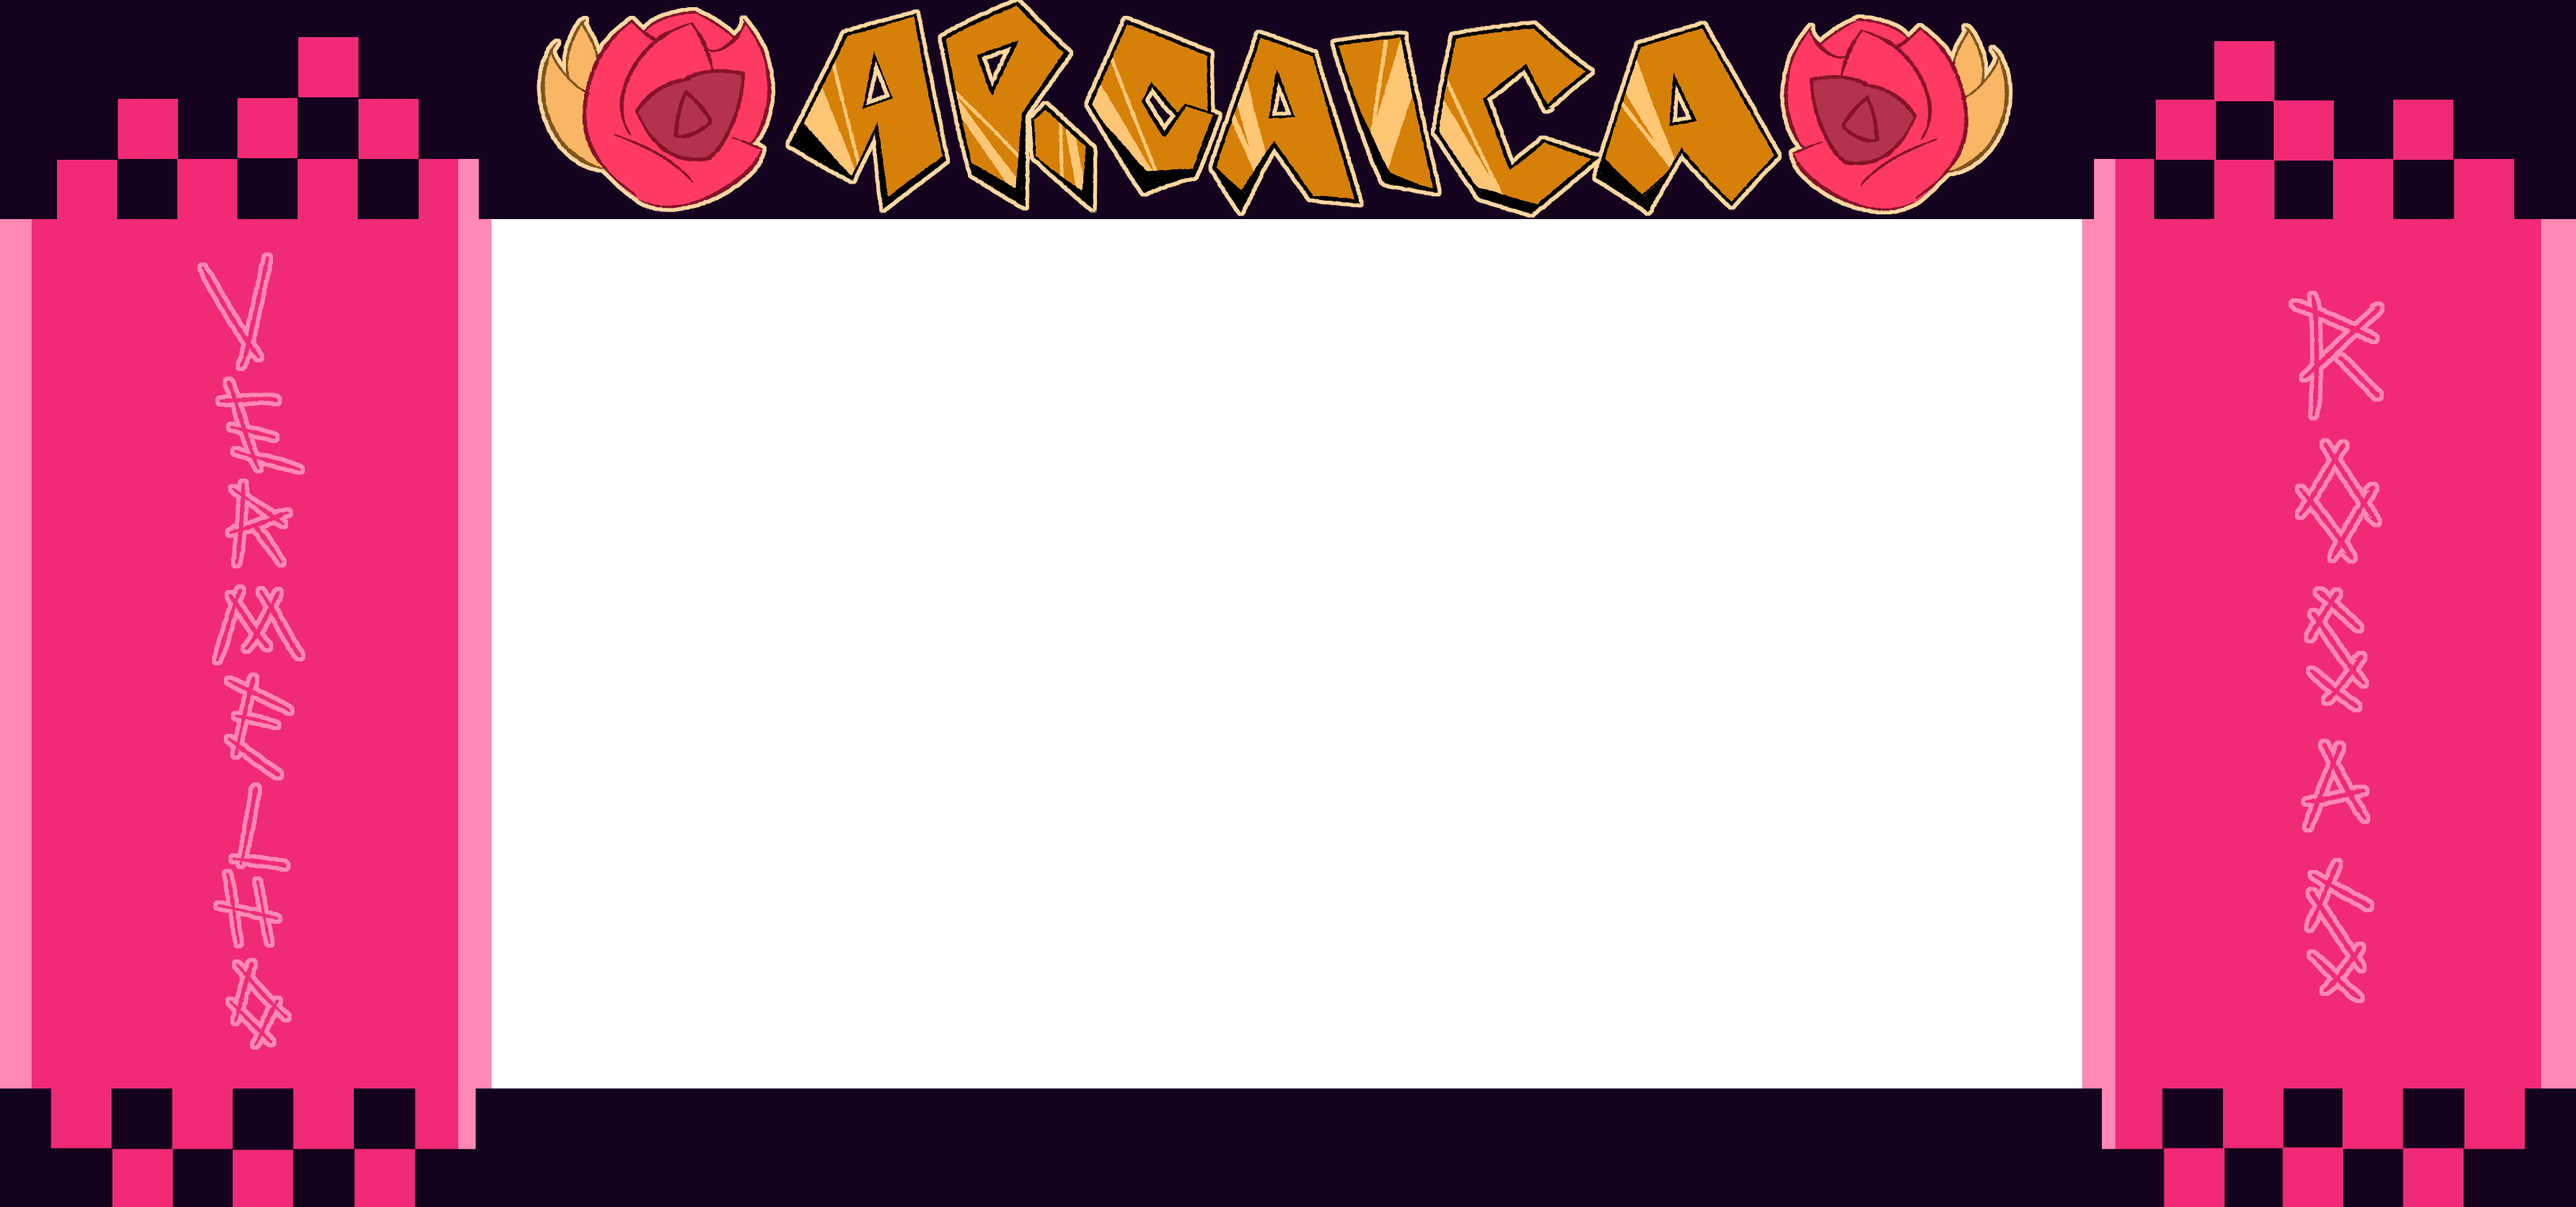
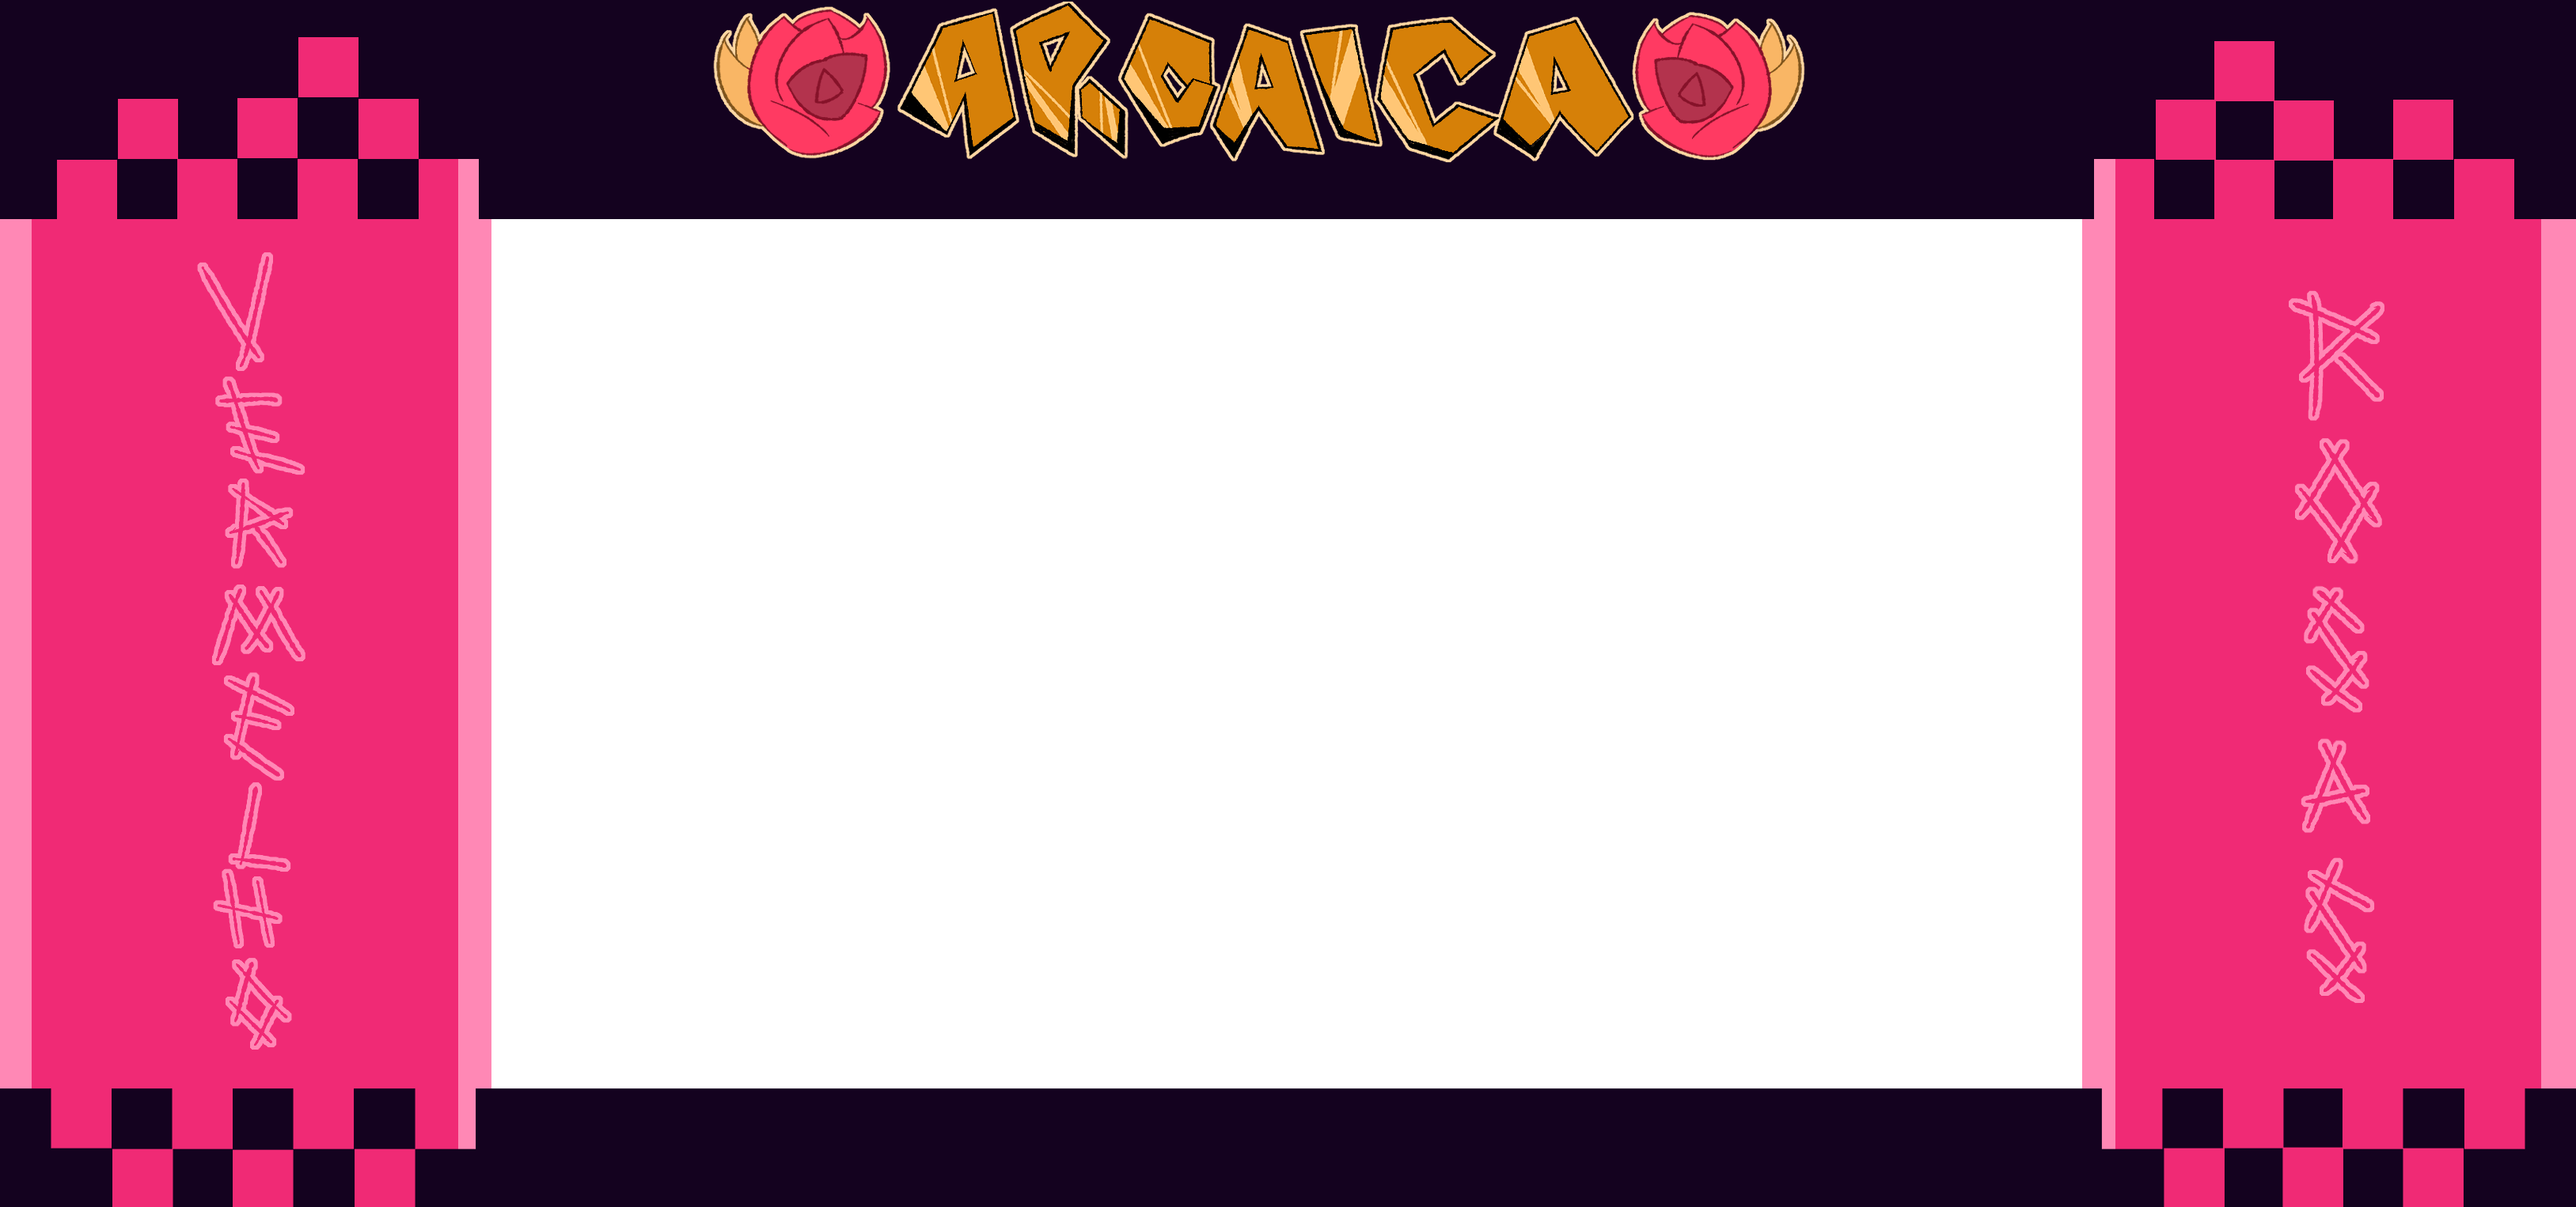
atualizacao background

Changed region(s): [[0.1862, 0.0, 0.8068, 0.1848]]

diff --git a/Projeto Arcaica/game_selection/game_selection.html b/Projeto Arcaica/game_selection/game_selection.html
@@ -34,7 +34,7 @@
               class="swiper-slide card-container"
               data-img="img/GSelection_Title_Jvelha.png"
             >
-              <a href="#">
+              <a href="../jogos/jvelha.html">
                 <div class="card">
                   <div
                     class="front"
@@ -48,7 +48,7 @@
               class="swiper-slide card-container"
               data-img="img/GSelection_Title_Damas.png"
             >
-              <a href="#">
+              <a href="../jogos/damas.html">
                 <div class="card">
                   <div
                     class="front"
@@ -62,7 +62,7 @@
               class="swiper-slide card-container"
               data-img="img/GSelection_Title_Cminado.png"
             >
-              <a href="#">
+              <a href="../jogos/cminado.html">
                 <div class="card">
                   <div
                     class="front"
@@ -76,15 +76,13 @@
               class="swiper-slide card-container"
               data-img="img/GSelection_Title_Nogame.png"
             >
-              <a href="#">
-                <div class="card">
-                  <div
-                    class="front"
-                    data-img="img/Gselect_Card_Front_anon.png"
-                  ></div>
-                  <div class="back"></div>
-                </div>
-              </a>
+              <div class="card">
+                <div
+                  class="front"
+                  data-img="img/Gselect_Card_Front_anon.png"
+                ></div>
+                <div class="back"></div>
+              </div>
             </div>
           </div>
         </div>

diff --git a/Projeto Arcaica/game_selection/game_selection.css b/Projeto Arcaica/game_selection/game_selection.css
@@ -33,7 +33,7 @@ body {
   background-repeat: no-repeat;
   background-position: center;
   background-size: cover;
-  margin-top: 18.2vh;
+  margin-top: 15vh;
 }
 #image-overlay {
   position: absolute;

diff --git a/Projeto Arcaica/home/home.css b/Projeto Arcaica/home/home.css
@@ -29,7 +29,7 @@ body {
   background-repeat: no-repeat;
   background-size: cover;
   background-position: center;
-  margin-top: 18.2vh;
+  margin-top: 15vh;
 }
 #image-overlay {
   top: 0;
